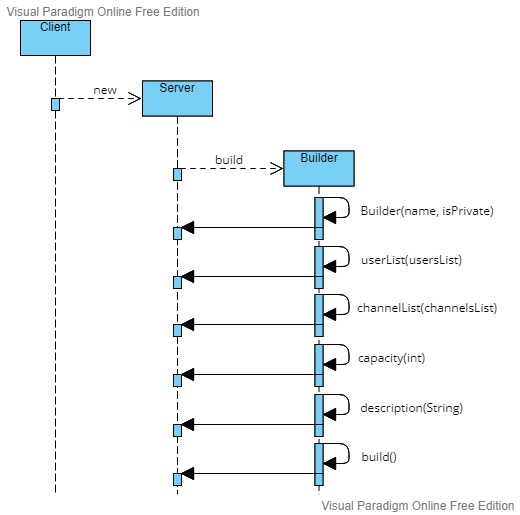
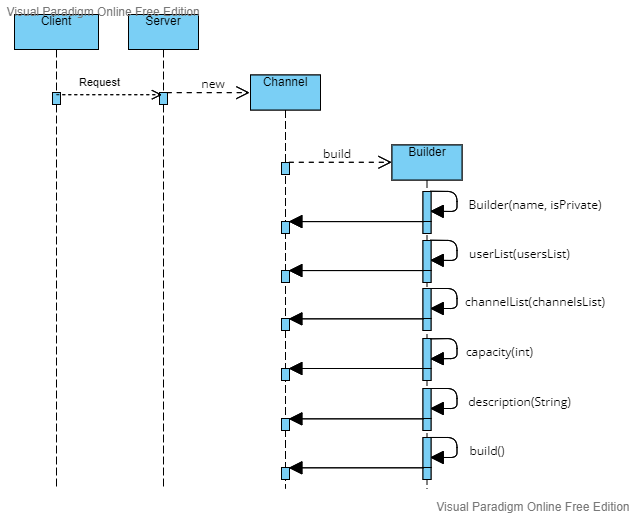
Updating a bunch of files
Removed redundancy on private server and changed to channels

diff --git a/Assignments/Assignment2/problem 2/builder design/Channel.java b/Assignments/Assignment2/problem 2/builder design/Channel.java
@@ -1,0 +1,57 @@
+/*
+ * Click nbfs://nbhost/SystemFileSystem/Templates/Licenses/license-default.txt to change this license
+ * Click nbfs://nbhost/SystemFileSystem/Templates/Classes/Class.java to edit this template
+ */
+package Accord;
+
+import java.util.ArrayList;
+public class Channel {  
+    public class builder{
+        private ArrayList<Message> MessageList;
+        private String Name;
+        private String Description;
+        private boolean isPrivate;
+        
+        public void Server(String inputName){
+            MessageList = new ArrayList<>();
+            Name = inputName;
+        }
+    
+        public ArrayList<String> getMessageList()
+        {
+            return MessageList;
+        }
+		
+		public builder setMessageList(ArrayList<Message> messageList)
+        {
+            return builder;
+        }
+            
+        public builder setName(String newName)
+        {
+            Name = newName;
+            return this;
+        }
+    
+        public String getName()
+        {
+            return Name;
+        }
+    
+        public builder setDesc(String Desc)
+        {
+            Description = Desc;
+            return this;
+        }
+    
+        public String getDesc()
+        {
+            return Description;
+        }
+                
+        public boolean getIsPrivate()
+        {
+            return isPrivate;
+        }
+    }
+}
